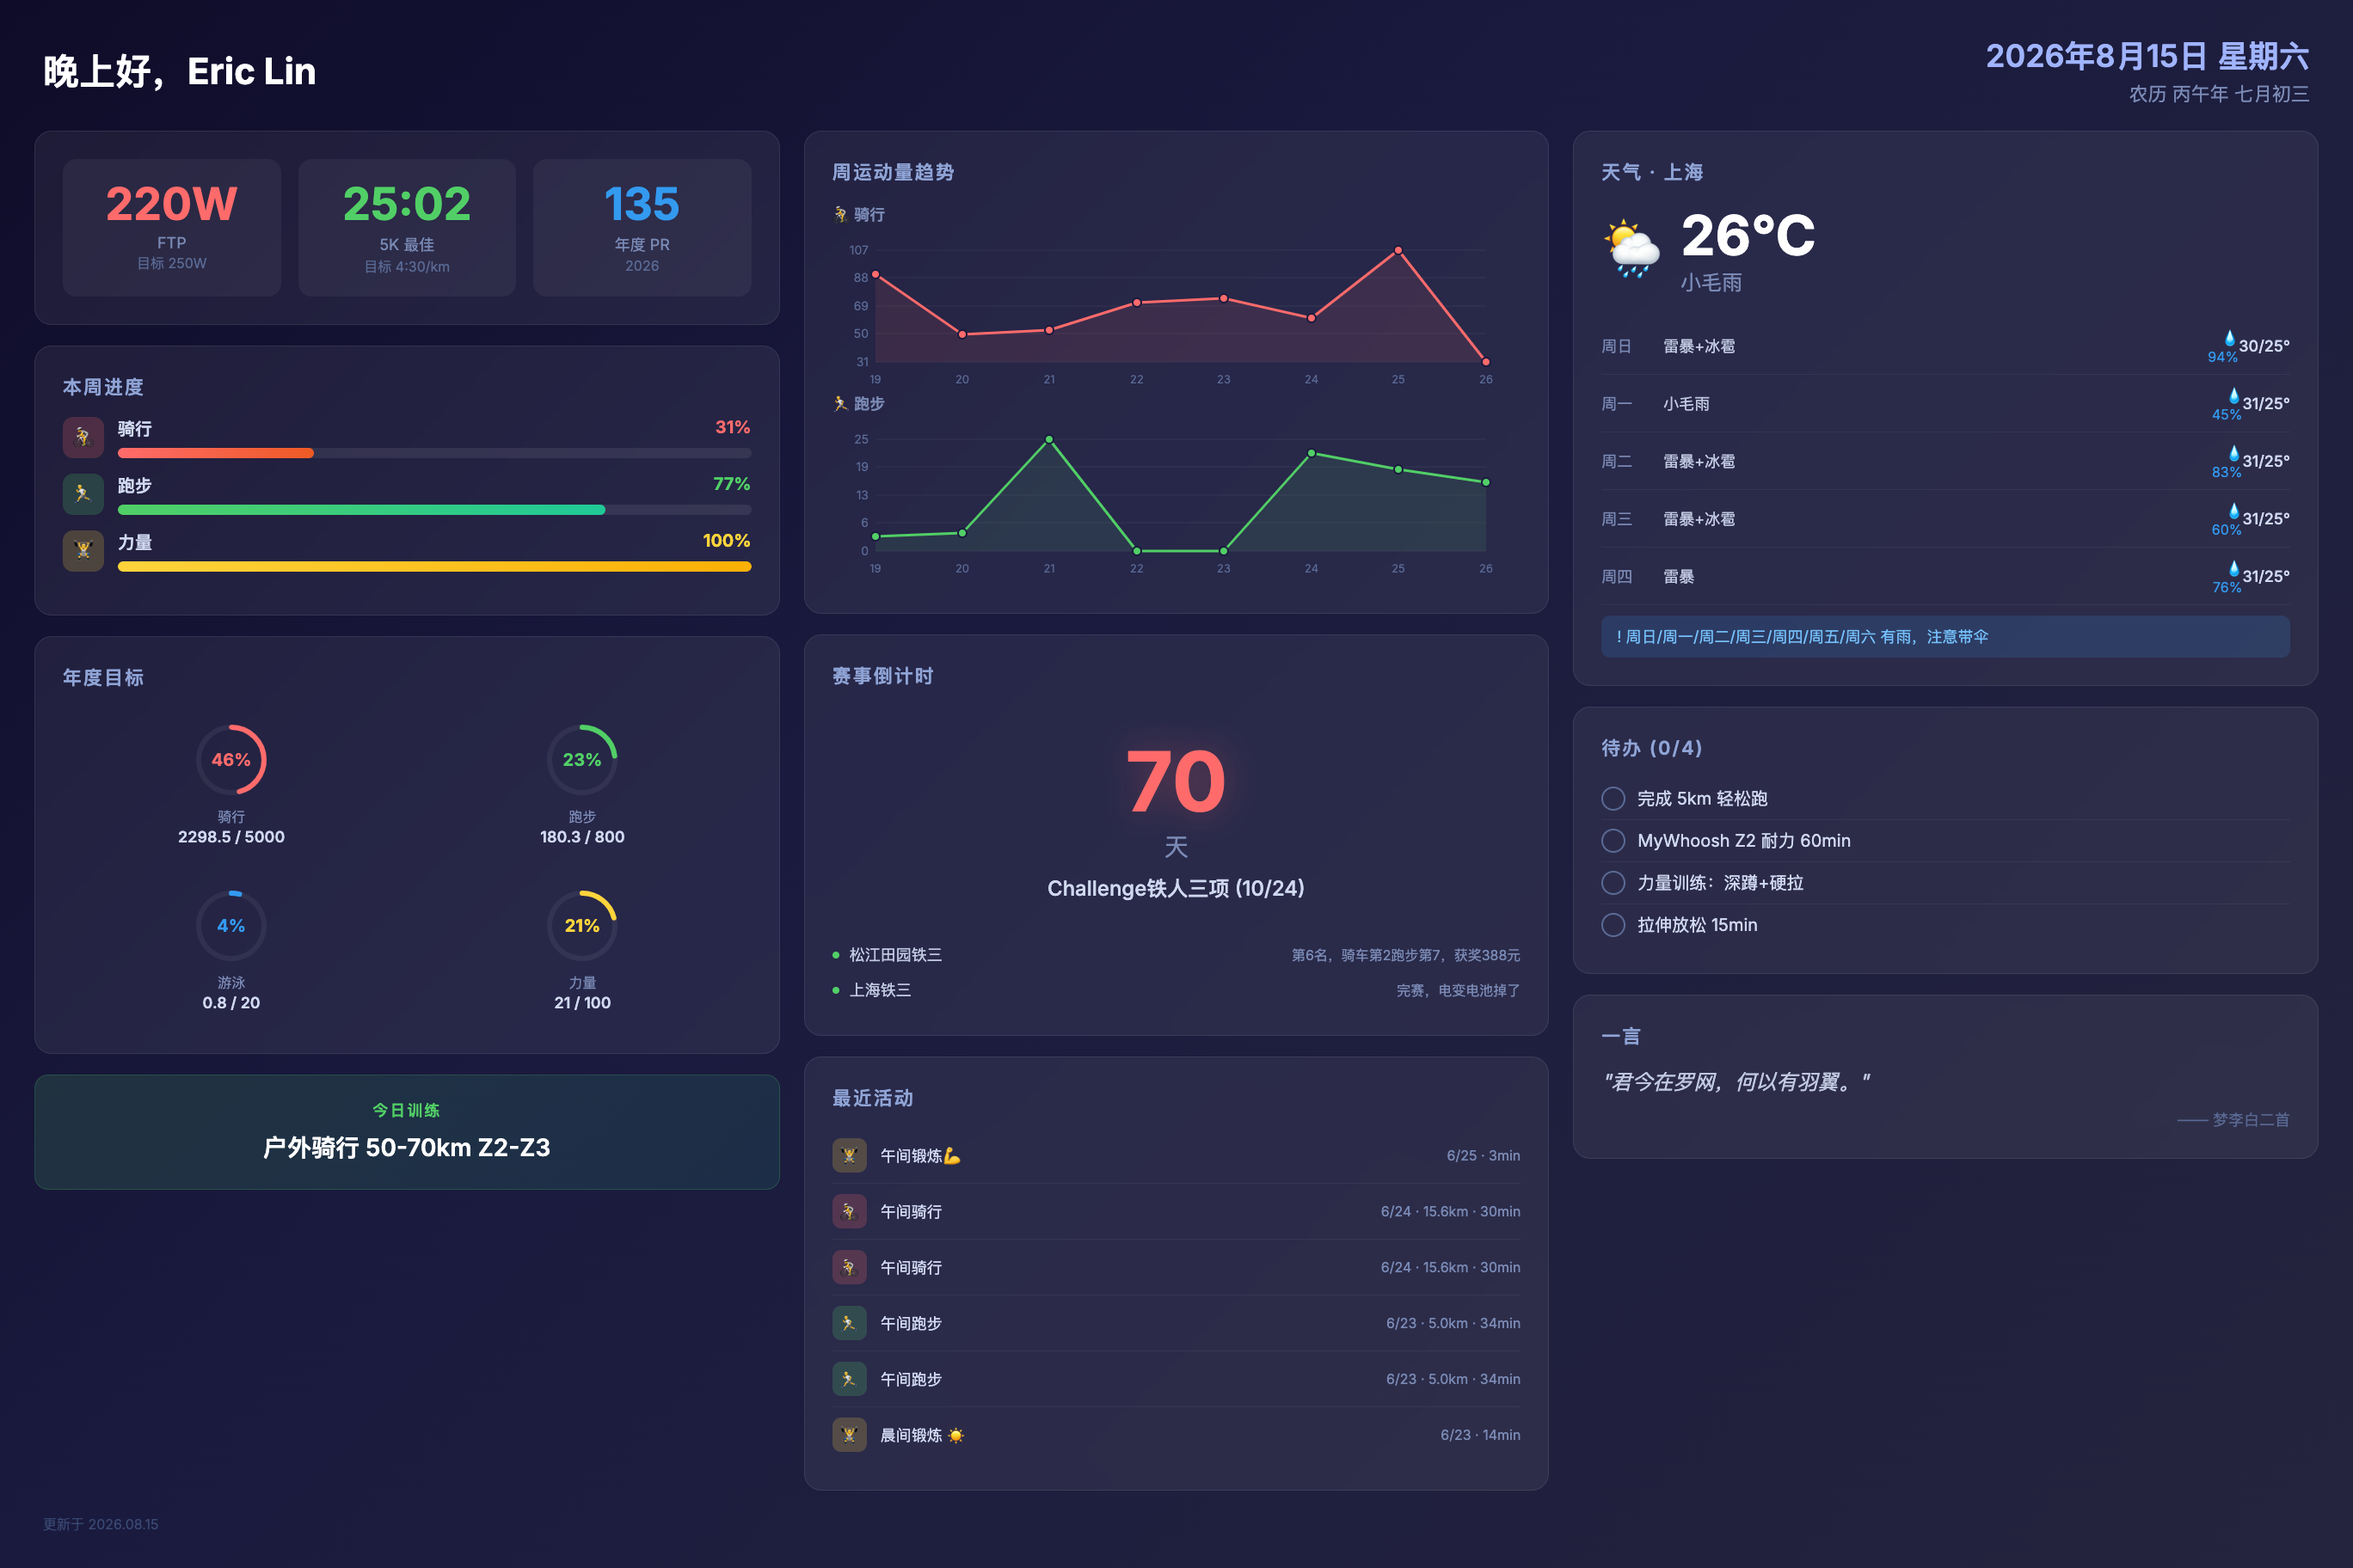
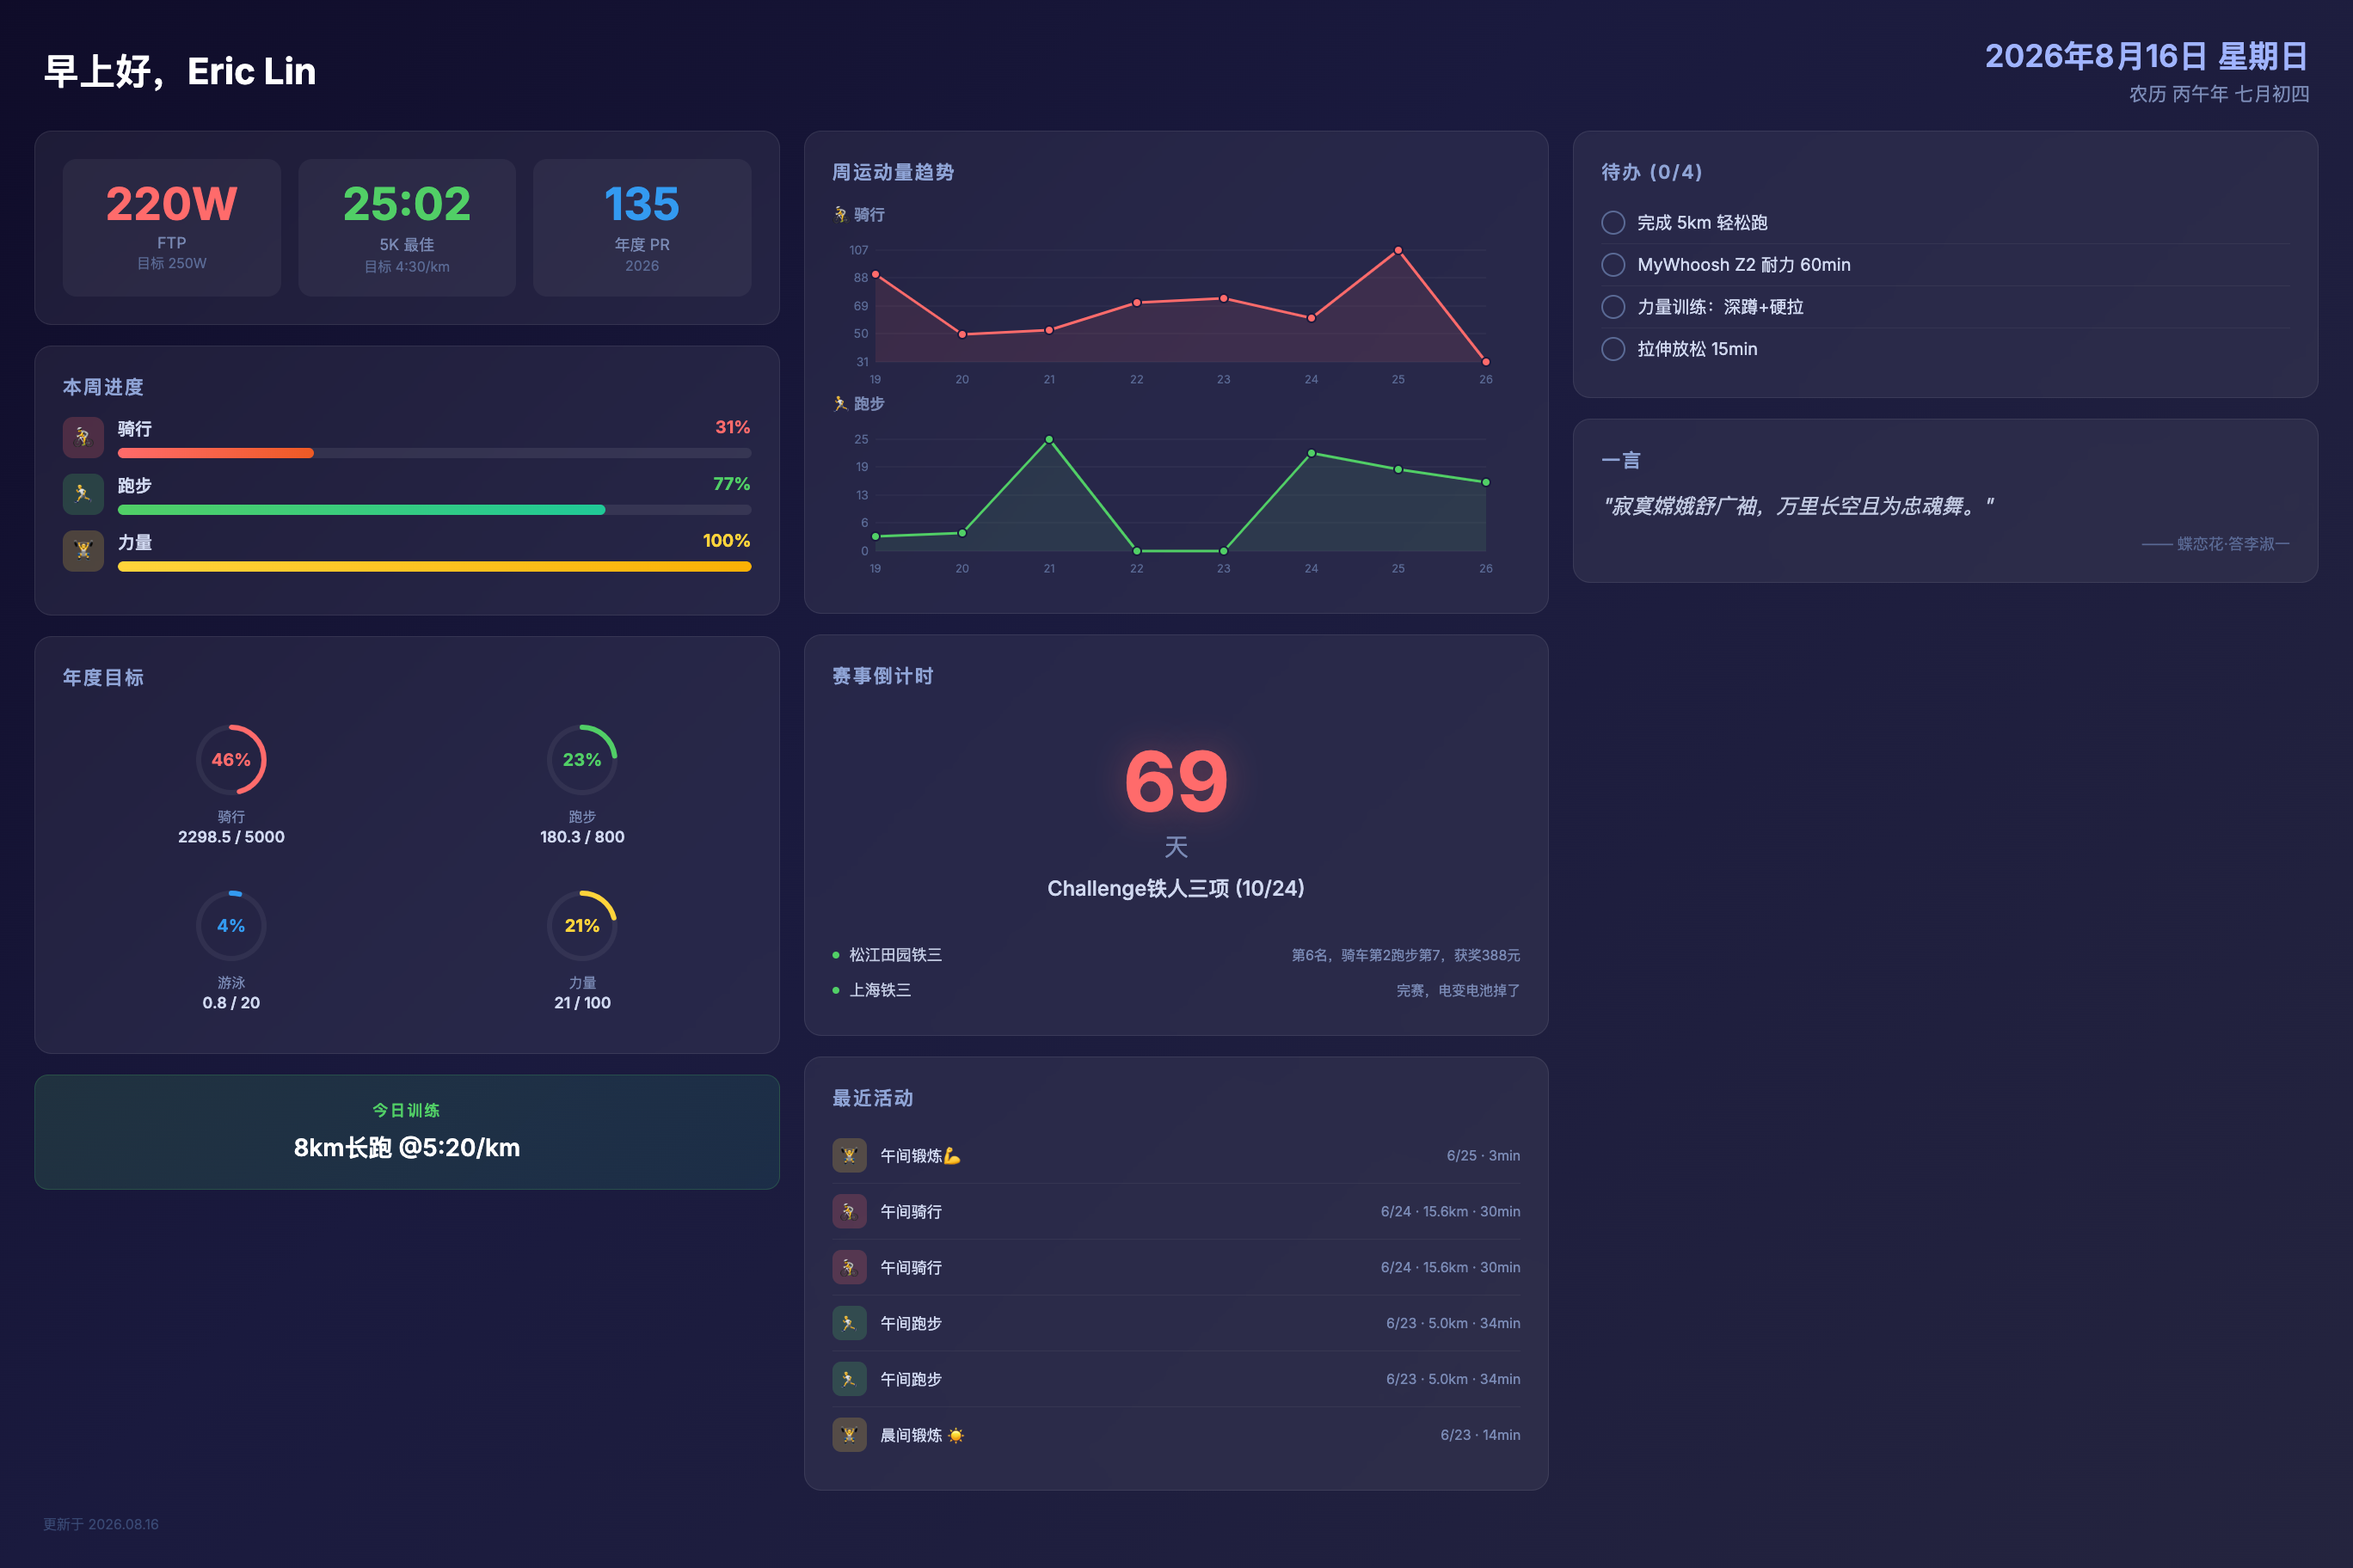
deploy: 2026-08-16-07:00

diff --git a/screensaver.html b/screensaver.html
@@ -490,13 +490,13 @@ html, body {
 <!-- ===== TOP BAR ===== -->
 <div class="top-bar">
   <div>
-    <div class="greeting">晚上好，Eric Lin</div>
+    <div class="greeting">早上好，Eric Lin</div>
     
   </div>
   <div class="date-info">
-    <div class="solar-date">2026年8月15日 星期六</div>
+    <div class="solar-date">2026年8月16日 星期日</div>
     
-    <div class="lunar-date">农历 丙午年 七月初三</div>
+    <div class="lunar-date">农历 丙午年 七月初四</div>
     
   </div>
 </div>
@@ -638,7 +638,7 @@ html, body {
   
   <div class="ai-today-card">
     <div class="ai-today-label">今日训练</div>
-    <div class="ai-today-text">户外骑行 50-70km Z2-Z3</div>
+    <div class="ai-today-text">8km长跑 @5:20/km</div>
   </div>
   
 
@@ -732,7 +732,7 @@ html, body {
   <div class="card">
     <div class="card-title">赛事倒计时</div>
     <div class="race-countdown">
-      <div class="countdown-number">70</div>
+      <div class="countdown-number">69</div>
       <div class="countdown-unit">天</div>
       <div class="countdown-name">Challenge铁人三项 (10/24)</div>
     </div>
@@ -805,58 +805,6 @@ html, body {
 
   <!-- Weather -->
   
-  <div class="card">
-    <div class="card-title">天气 · 上海</div>
-    <div class="weather-current">
-      <div class="weather-icon-big">🌦</div>
-      <div>
-        <div class="weather-temp-big">26°C</div>
-        <div class="weather-desc">小毛雨</div>
-      </div>
-    </div>
-    
-    
-    <div class="forecast-row">
-      <div class="forecast-day">周日</div>
-      <div class="forecast-desc">雷暴+冰雹</div>
-      <div class="forecast-precip">💧94%</div>
-      <div class="forecast-range">30/25°</div>
-    </div>
-    
-    <div class="forecast-row">
-      <div class="forecast-day">周一</div>
-      <div class="forecast-desc">小毛雨</div>
-      <div class="forecast-precip">💧45%</div>
-      <div class="forecast-range">31/25°</div>
-    </div>
-    
-    <div class="forecast-row">
-      <div class="forecast-day">周二</div>
-      <div class="forecast-desc">雷暴+冰雹</div>
-      <div class="forecast-precip">💧83%</div>
-      <div class="forecast-range">31/25°</div>
-    </div>
-    
-    <div class="forecast-row">
-      <div class="forecast-day">周三</div>
-      <div class="forecast-desc">雷暴+冰雹</div>
-      <div class="forecast-precip">💧60%</div>
-      <div class="forecast-range">31/25°</div>
-    </div>
-    
-    <div class="forecast-row">
-      <div class="forecast-day">周四</div>
-      <div class="forecast-desc">雷暴</div>
-      <div class="forecast-precip">💧76%</div>
-      <div class="forecast-range">31/25°</div>
-    </div>
-    
-    
-    
-    <div class="rain-alert">! 周日/周一/周二/周三/周四/周五/周六 有雨，注意带伞</div>
-    
-  </div>
-  
 
   <!-- Todos -->
   
@@ -902,9 +850,9 @@ html, body {
   
   <div class="card">
     <div class="card-title">一言</div>
-    <div class="quote-text">"君今在罗网，何以有羽翼。"</div>
+    <div class="quote-text">"寂寞嫦娥舒广袖，万里长空且为忠魂舞。"</div>
     
-    <div class="quote-from">—— 梦李白二首</div>
+    <div class="quote-from">—— 蝶恋花·答李淑一</div>
     
   </div>
   
@@ -913,7 +861,7 @@ html, body {
 
 <!-- ===== BOTTOM BAR ===== -->
 <div class="bottom-bar">
-  <div class="update-time">更新于 2026.08.15</div>
+  <div class="update-time">更新于 2026.08.16</div>
 </div>
 
 </div>

diff --git a/life.html b/life.html
@@ -89,7 +89,7 @@ html, body {
 <table class="header-table">
   <tr>
     <td class="header-left">生活</td>
-    <td class="header-right">2026.08.15</td>
+    <td class="header-right">2026.08.16</td>
   </tr>
 </table>
 
@@ -133,84 +133,16 @@ html, body {
 
 <!-- ===== 天气 ===== -->
 
-<div class="box">
-  <p class="section-title">☀ 天气 · 上海</p>
-  <table class="weather-table">
-    <tr>
-      <td class="weather-icon">.</td>
-      <td class="weather-temp">26°C</td>
-      <td class="weather-desc">小毛雨</td>
-    </tr>
-  </table>
-  
-  <table class="forecast-table">
-    
-    <tr>
-      <td class="forecast-day">周日</td>
-      <td class="forecast-icon">!</td>
-      <td>雷暴+冰雹</td>
-      <td class="forecast-range">30/25°C</td>
-    </tr>
-    
-    <tr>
-      <td class="forecast-day">周一</td>
-      <td class="forecast-icon">.</td>
-      <td>小毛雨</td>
-      <td class="forecast-range">31/25°C</td>
-    </tr>
-    
-    <tr>
-      <td class="forecast-day">周二</td>
-      <td class="forecast-icon">!</td>
-      <td>雷暴+冰雹</td>
-      <td class="forecast-range">31/25°C</td>
-    </tr>
-    
-    <tr>
-      <td class="forecast-day">周三</td>
-      <td class="forecast-icon">!</td>
-      <td>雷暴+冰雹</td>
-      <td class="forecast-range">31/25°C</td>
-    </tr>
-    
-    <tr>
-      <td class="forecast-day">周四</td>
-      <td class="forecast-icon">!</td>
-      <td>雷暴</td>
-      <td class="forecast-range">31/25°C</td>
-    </tr>
-    
-    <tr>
-      <td class="forecast-day">周五</td>
-      <td class="forecast-icon">!</td>
-      <td>雷暴</td>
-      <td class="forecast-range">30/25°C</td>
-    </tr>
-    
-    <tr>
-      <td class="forecast-day">周六</td>
-      <td class="forecast-icon">*</td>
-      <td>大部晴</td>
-      <td class="forecast-range">33/27°C</td>
-    </tr>
-    
-  </table>
-  
-  
-  <div class="rain-alert">! 周日/周一/周二/周三/周四/周五/周六 有雨，注意带伞</div>
-  
-</div>
-
 
 <!-- ===== 今日 ===== -->
 <div class="box">
   <p class="section-title">📅 今日</p>
   <table class="data-table">
     <tr>
-      <td>2026年8月15日 星期五</td>
+      <td>2026年8月16日 星期六</td>
     </tr>
     <tr>
-      <td>农历丙午年 七月初三</td>
+      <td>农历丙午年 七月初四</td>
     </tr>
   </table>
 </div>
@@ -261,9 +193,9 @@ html, body {
 
 <div class="box">
   <p class="section-title">💬 一言</p>
-  <p class="quote-text">君今在罗网，何以有羽翼。</p>
+  <p class="quote-text">寂寞嫦娥舒广袖，万里长空且为忠魂舞。</p>
   
-  <p class="quote-from">—— 梦李白二首</p>
+  <p class="quote-from">—— 蝶恋花·答李淑一</p>
   
 </div>
 

diff --git a/index.html b/index.html
@@ -74,7 +74,7 @@ html, body {
 <table class="header-table">
   <tr>
     <td class="header-left">Eric Lin · 运动</td>
-    <td class="header-right">2026.08.15</td>
+    <td class="header-right">2026.08.16</td>
   </tr>
 </table>
 
@@ -225,17 +225,10 @@ html, body {
 <div class="ai-plan">
   <div class="ai-plan-title">AI 训练建议</div>
   
-  <div class="ai-today">今日: 户外骑行 60km Z2-Z3</div>
+  <div class="ai-today">今日: 长跑 8km @5:20/km</div>
   
   
   <table class="ai-weekly">
-    
-    <tr>
-      <td class="day">周六</td>
-      
-      <td>户外骑行 60km Z2-Z3</td>
-      
-    </tr>
     
     <tr>
       <td class="day">周日</td>
@@ -279,6 +272,13 @@ html, body {
       
     </tr>
     
+    <tr>
+      <td class="day">周六</td>
+      
+      <td>户外骑行 60km Z2-Z3</td>
+      
+    </tr>
+    
   </table>
   
   
@@ -293,7 +293,7 @@ html, body {
   <p class="section-title">即将到来</p>
   
   <div class="countdown-box">
-    <div class="countdown-days">70</div>
+    <div class="countdown-days">69</div>
     <div class="countdown-label">距 Challenge铁人三项 (10/24)</div>
   </div>
   

diff --git a/work.html b/work.html
@@ -89,7 +89,7 @@ html, body {
 <table class="header-table">
   <tr>
     <td class="header-left">工作</td>
-    <td class="header-right">2026.08.15</td>
+    <td class="header-right">2026.08.16</td>
   </tr>
 </table>
 
